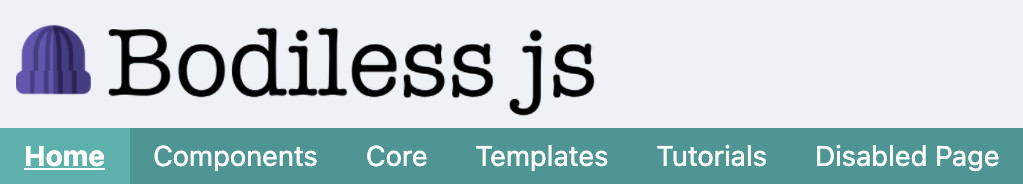
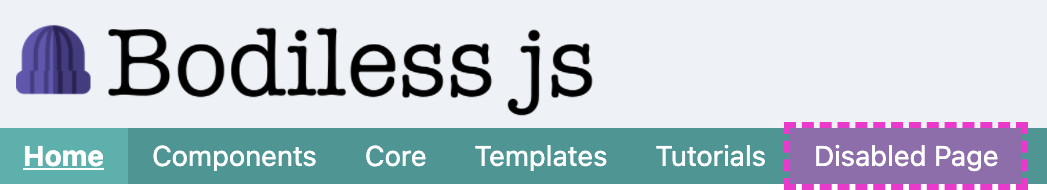
docs(bodiless-documentation): User can see a link is disabled (#1234)
- Update "Disable" documentation:
  - Update documentation to describe visual identifiers of disabled
    links.
  - Update screenshots.
- Add link to "Delete" page
- Address Heidi's feedback
- Update MD formatting for consistency

Changed region(s): [[0.0, 0.625, 1.0, 1.0], [0.0, 0.1359, 0.6061, 0.625]]

diff --git a/packages/bodiless-documentation/doc/ContentEditorUserGuide/PageMenu/Disable/README.md b/packages/bodiless-documentation/doc/ContentEditorUserGuide/PageMenu/Disable/README.md
@@ -5,13 +5,12 @@ the current page, or the page itself.
 
 ![Disable icon](./assets/PageDisableIcon.jpg ':size=60')
 
-<!-- TODO: Link "Delete" to the corresponding page once it's documented. -->
 The disablement of a page means that the page will not be rendered/available on the Preview site
 (i.e., the published static site), but will still exist in [Edit](../../#edit-mode) and [Review
 Mode](../../#review-mode). This allows you to temporarily take a page offline but retain its
-content. If you believe the page will be permanently offline, we recommend you use the **Delete**
-operation to remove the page from your site (_Note:_ This _will_ result in a loss of that page's
-content).
+content. If you believe the page will be permanently offline, we recommend you use the
+[**Delete**](../Delete/) operation to remove the page from your site (_Note:_ This _will_ result in
+a loss of that page's content).
 
 Disabling the more granular features related to a page will alter the Preview/Review/Edit Mode
 experiences differently, depending upon the feature(s) selected.
@@ -57,6 +56,12 @@ To disable menu links leading to the current page, select the "Menu links" check
 When disabled, any menu links targeting the current page will not be visible in Preview (Static) or
 Review Mode (i.e., for each of the affected links, neither the anchor element or the link text will
 be rendered). Disabled menu links _will_, however, still be visible and functional in Edit Mode.
+While in Edit Mode, disabled menu links will be made visibly clear by being highlighted in fuchsia,
+and will display "Link Disabled" on hover.
+
+!>  **IMPORTANT:** Your site may exhibit different behavior than that depicted in the proceeding
+    screenshots, as the site-level styling of the menu will take precedence and may
+    hide/override/camouflage the editor's styling.
 
 **Review Mode**  
 ![Disabled menu link - Review Mode](./assets/DisabledMenuLinkReviewMode.jpg)
@@ -64,8 +69,8 @@ be rendered). Disabled menu links _will_, however, still be visible and function
 **Edit Mode**  
 ![Disabled menu link - Edit Mode](./assets/DisabledMenuLinkEditMode.jpg)
 
-?> **Note:** The page will still be reachable directly (via its URL), regardless of menu links being
-disabled — even if the page itself has been disabled.
+?>  **Note:** The page will still be reachable directly (via its URL), regardless of menu links
+    being disabled — even if the page itself has been disabled.
 
 ## Disable Non-Menu Links
 
@@ -76,12 +81,15 @@ the [Rich Text Editor Component](/Components/RichText) or [Card Component](/Comp
 When disabled, any links targeting the current page — that aren't in menus — will not be rendered in
 Preview (Static) or Review Mode (i.e., for each of the affected links, the anchor element will not
 be rendered, but the link text will be). Disabled non-menu links _will_, however, still be visible
-and functional in Edit Mode.
+and functional in Edit Mode. While in Edit Mode, disabled menu links will be made visibly clear by
+being highlighted in fuchsia. In all modes, non-menu links will display "Link Disabled" on hover.
 
-![Disabled non-menu links - Review Mode vs. Edit Mode](./assets/DisableNonMenuLinkReviewVsEdit.jpg)
+| Review Mode | Edit Mode |
+| ----------- | --------- |
+| ![Disabled non-menu link - Review Mode](./assets/DisabledNonMenuLinkReviewMode.jpg) | ![Disabled non-menu link - Edit Mode](./assets/DisabledNonMenuLinkEditMode.jpg) |
 
-?> **Note:** The page will still be reachable directly (via its URL), regardless of non-menu links
-being disabled — even if the page itself has been disabled.
+?>  **Note:** The page will still be reachable directly (via its URL), regardless of non-menu links
+    being disabled — even if the page itself has been disabled.
 
 ## Disable Indexing
 
@@ -89,4 +97,4 @@ Select the "Indexing" checkbox to remove the page's URL from the `sitemap.xml` f
 the `robots.txt` file. This will prevent search engines from discovering the page, as well as block
 them from indexing it if it has already been discovered.
 
-?> **Note:** This feature is still under development.
+?>  **Note:** This feature is still under development.
